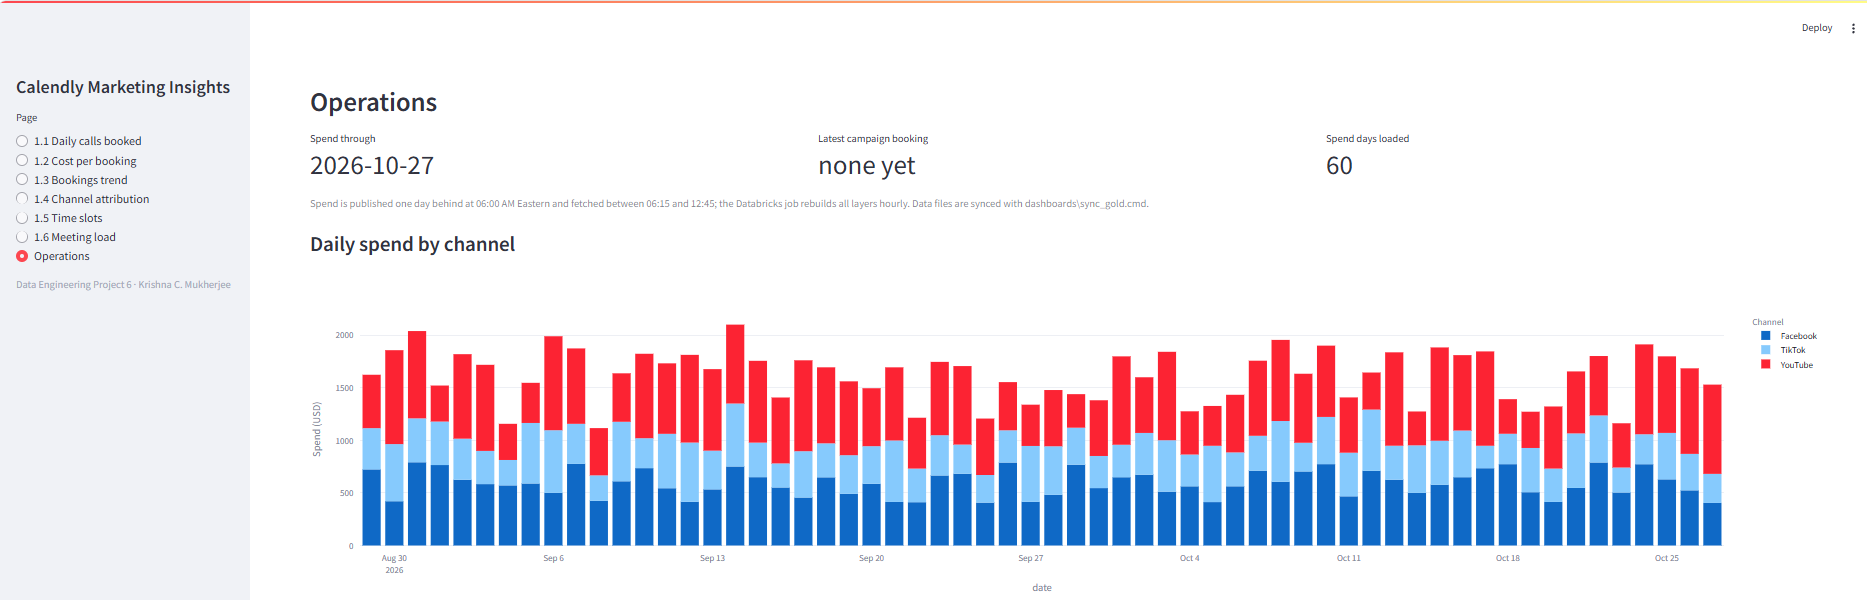
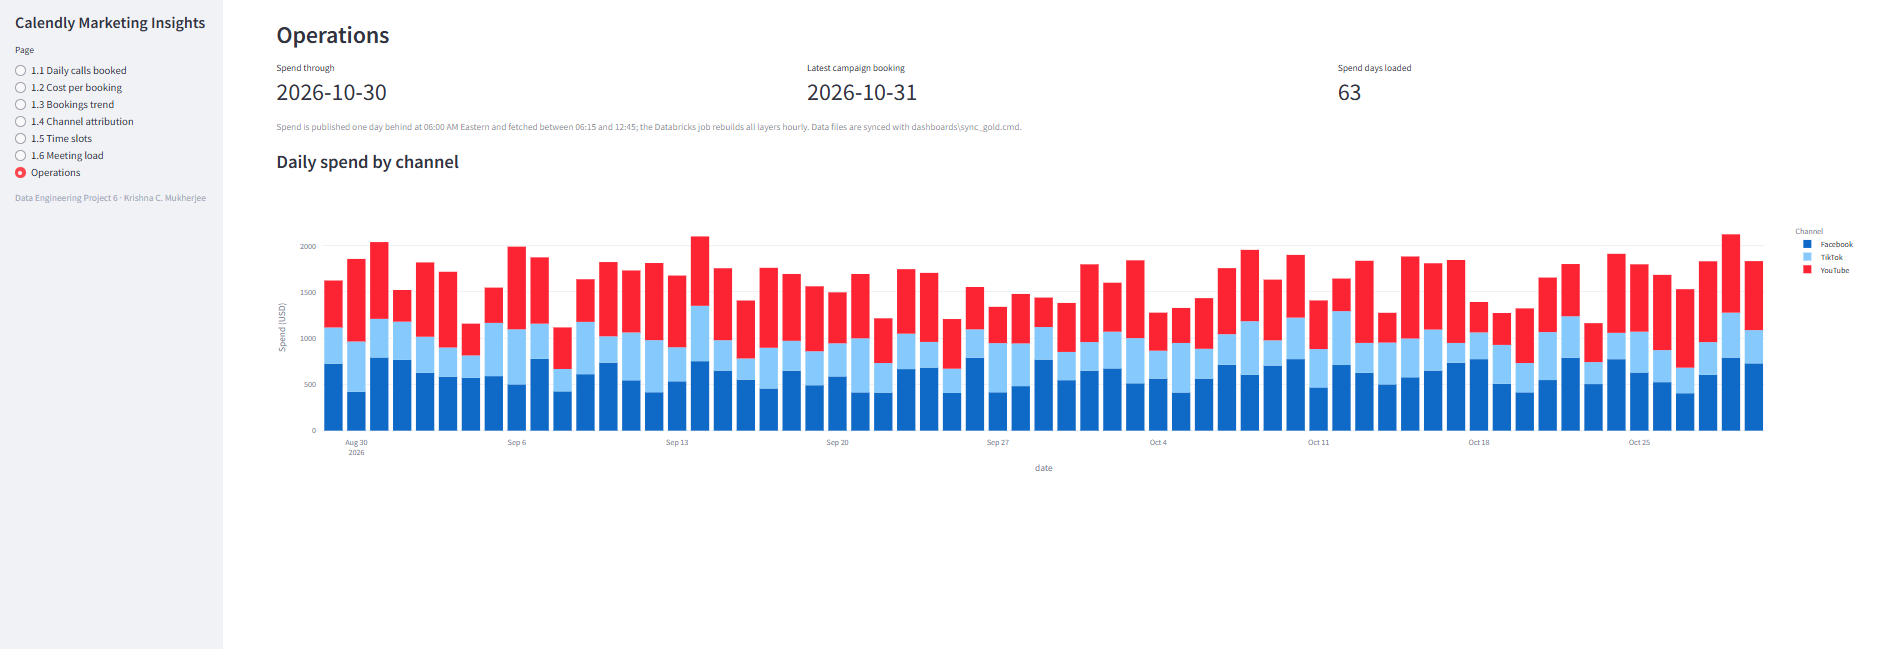
Fix Gold sync to clear stale exports; decision 31; dashboard screenshots

diff --git a/docs/decision_log.md b/docs/decision_log.md
@@ -36,3 +36,4 @@ the SME replies.
 | 28 | 2026-10-28 | One Databricks job (`calendly_pipeline`) runs all three notebooks hourly on serverless compute, in place of the proposal's hourly Silver job plus daily Gold job. | A full rebuild is cheap at this volume; one job is simpler to operate; Gold is refreshed hourly, which satisfies the SME's note on refresh frequency. |
 | 29 | 2026-10-28 | Phase 3 first run on serverless compute: Bronze 2,790 spend rows (31 files) and the test events; Silver spend 180 rows (2026-08-29 to 2026-10-27, $97,268.32); reconciliation check passed; CSV export written. | Run record. |
 | 30 | 2026-10-28 | Phase 4 live: GitHub Actions deploys the Function App (publish profile) and imports the notebooks and job definition (Databricks token with `jobs` and `workspace` scopes) on every push to `main`; job `calendly_pipeline` created by the workflow. | CI/CD requirement of the brief (Step 6) met. |
+| 31 | 2026-10-31 | `sync_gold.cmd` clears `dashboards/data/export/` before each download. | Spark writes CSV part files with new names on every run; the first sync after a second job run left both sets on the workstation and the dashboard showed spend doubled ($200,326 instead of $103,038). |

diff --git a/docs/phase5_dashboard.md b/docs/phase5_dashboard.md
@@ -29,4 +29,7 @@ streamlit run dashboards\app.py
 ```
 
 Rerun `sync_gold.cmd` whenever fresh Gold data is wanted; the hourly job refreshes the exports.
+The script deletes the local `export` folder before downloading, because each Databricks run
+writes CSV part files with new names and a plain download would leave the previous run's
+files beside them, doubling every figure (observed 2026-10-31, decision 31).
 Screenshots for the submission go in `docs/screenshots/`.
